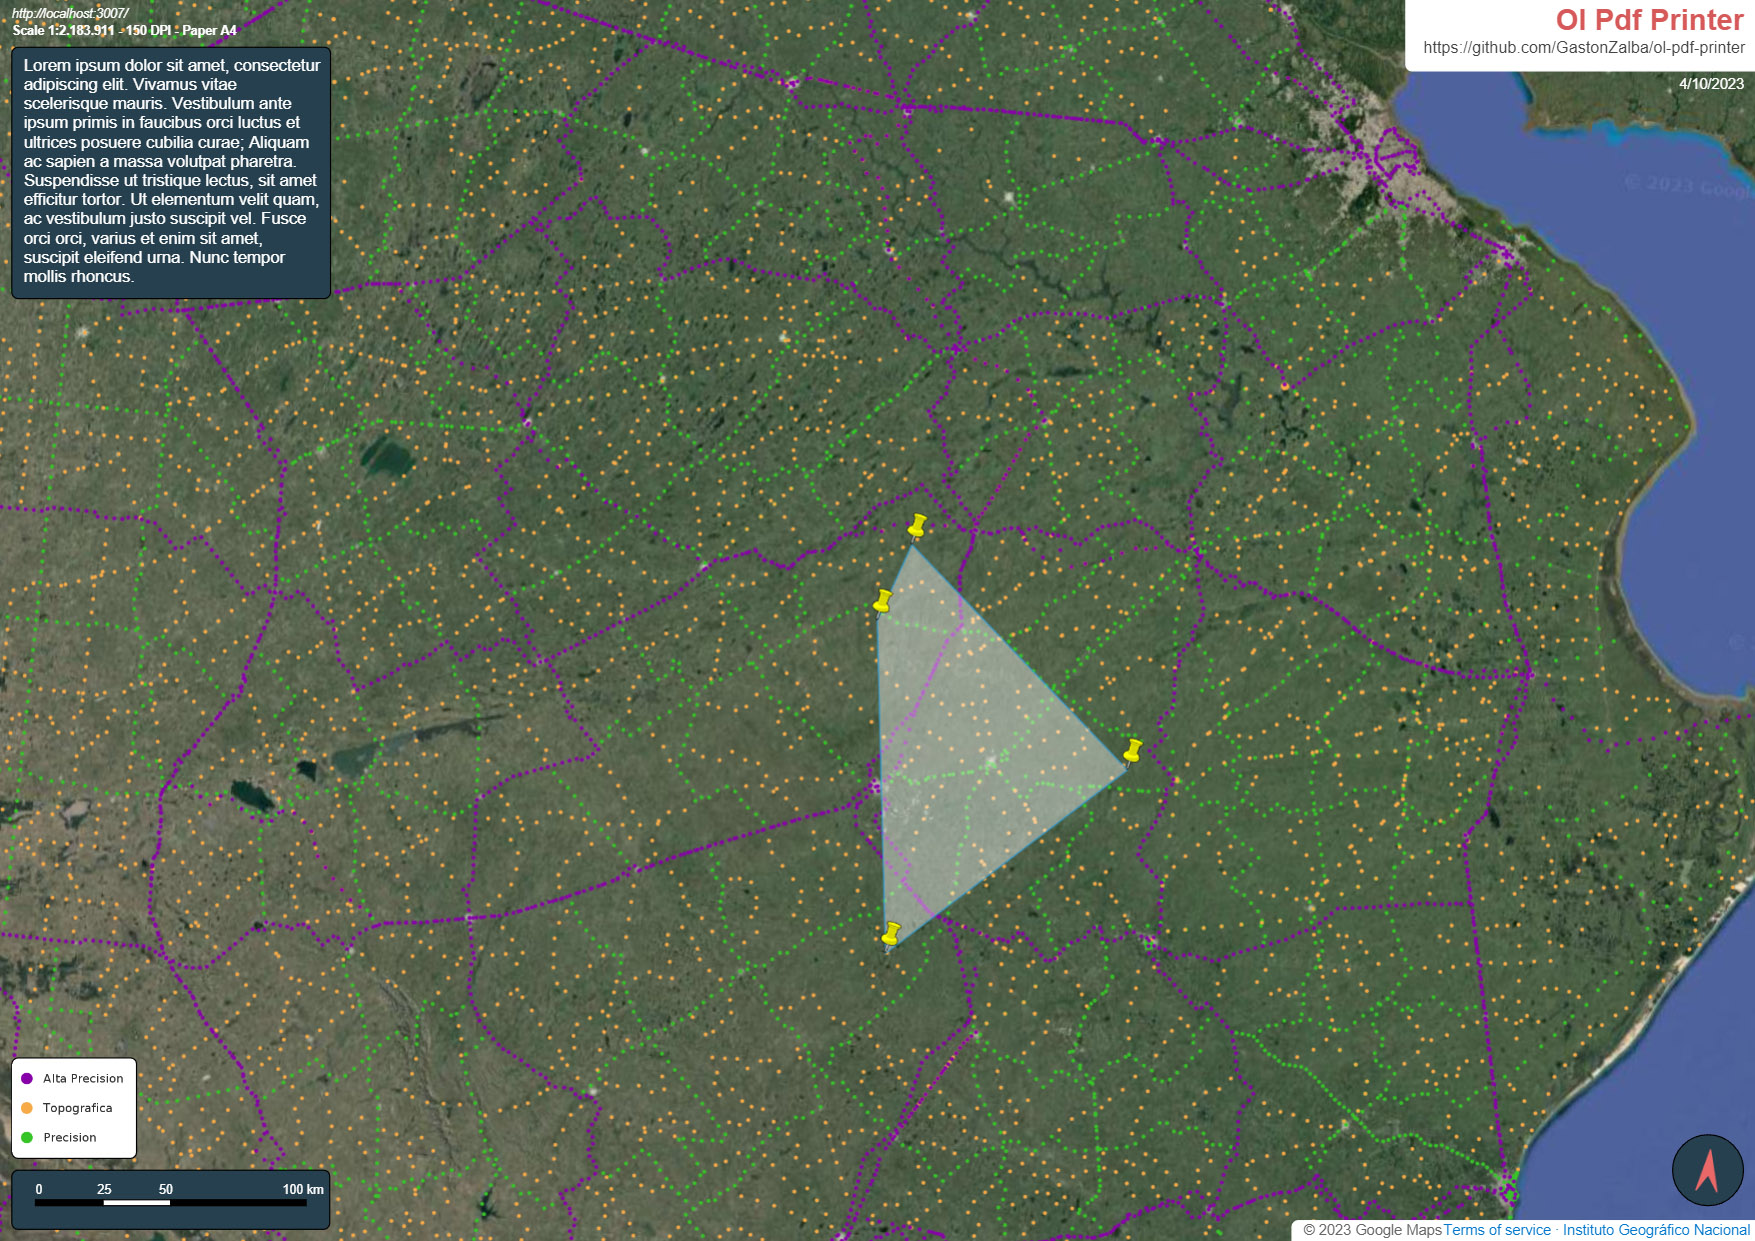
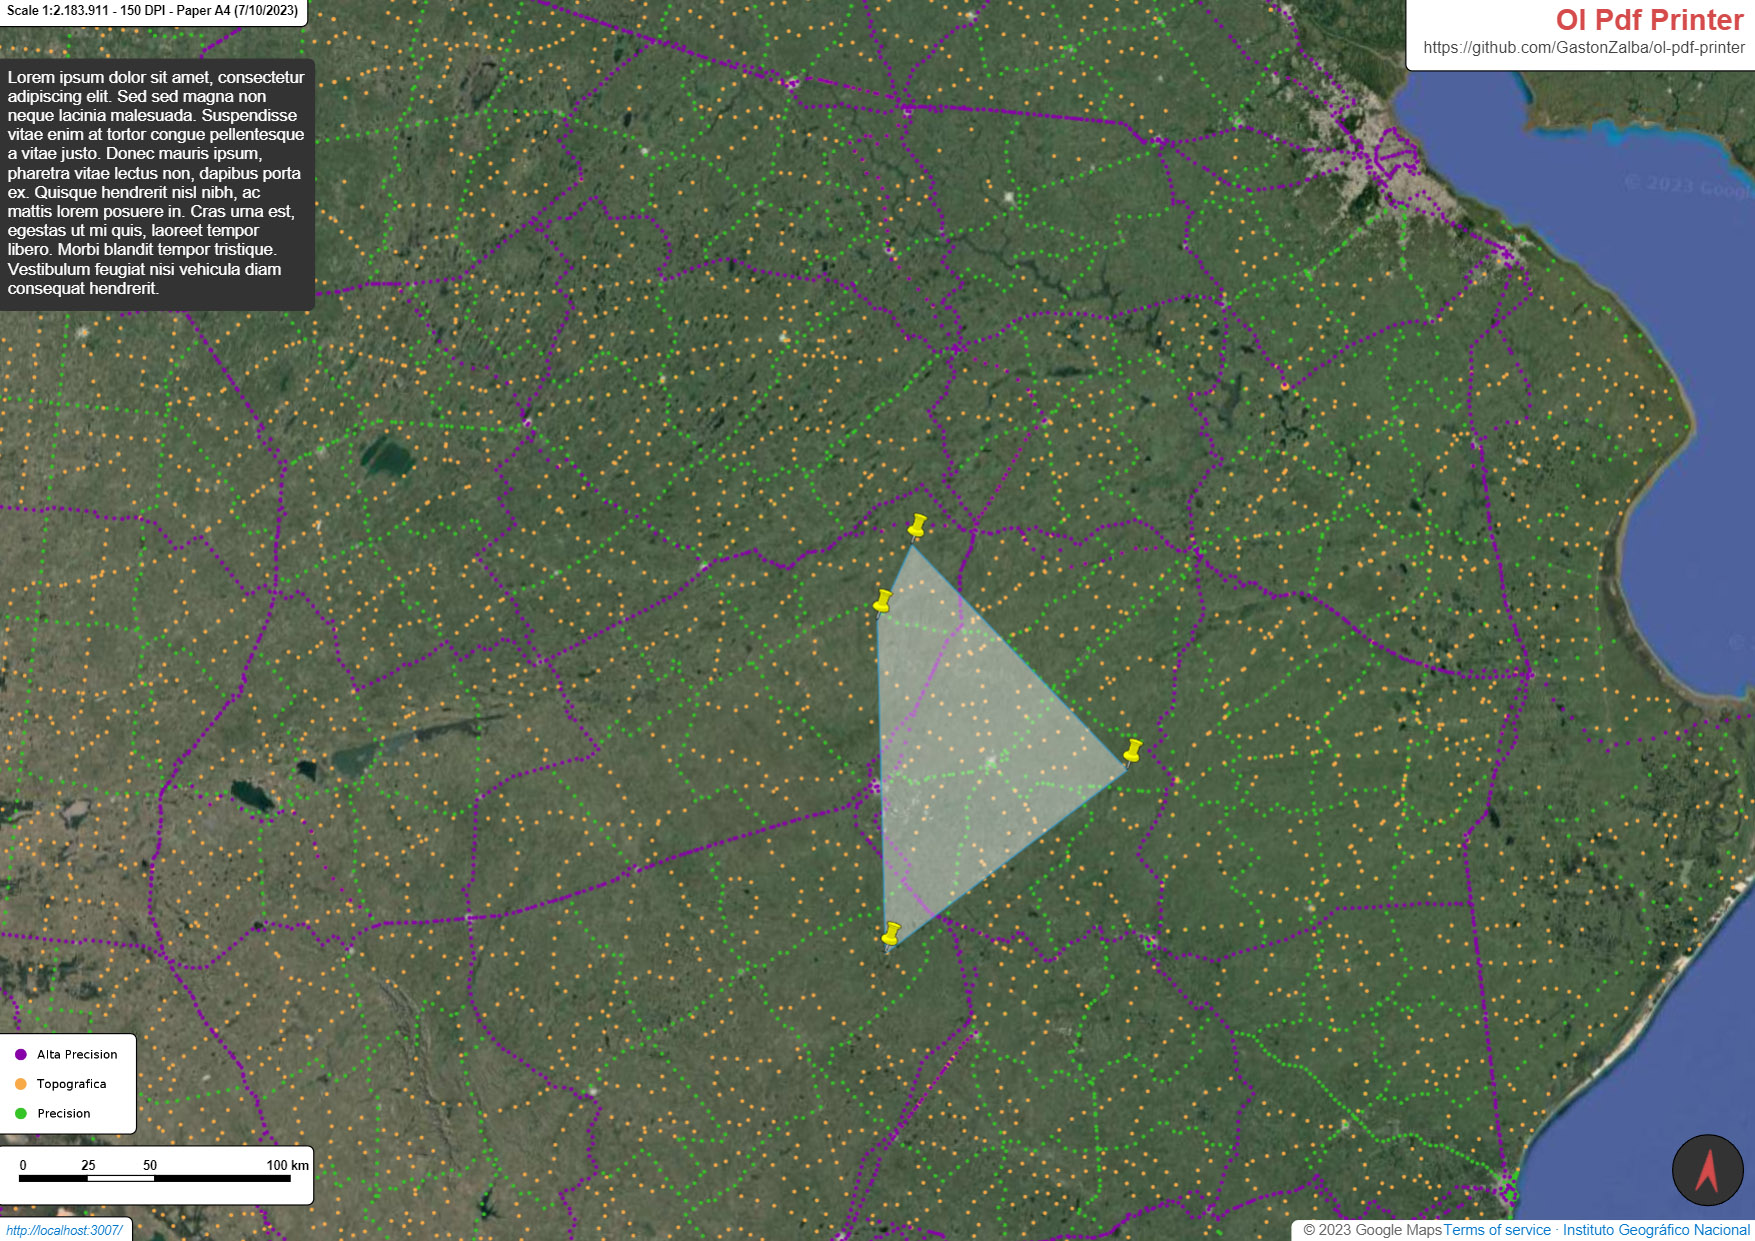
README and screenshots

diff --git a/README.md b/README.md
@@ -20,9 +20,8 @@ Tested with OpenLayers version 5, 6, 7 and 8.
 
 WMS sources and Icons that use external urls must be setted to `crossOrigin: 'anonymous'`. Otherwise, it will ocurr a `DOMException: Failed to execute 'toDataURL' on 'HTMLCanvasElement': Tainted canvases may not be exported`.
 
-<img src="screenshots/example-1.jpg" style="width:50%; float:left;">
-<img src="screenshots/example-2.jpg" style="width:50%; float:left;">
-<img src="screenshots/example-3.jpg" style="width:50%;">
+<img src="screenshots/example-1.jpg" style="width:50%; float:left;"/>
+<img src="screenshots/example-2.jpg" style="width:50%;"/>
 
 ## Examples
 
@@ -37,7 +36,7 @@ var opt_options = {
     i18n: {...}, // Custom translations. Default is according to selected language
     showControlBtn: true,
     filename: 'Ol Pdf Printer',
-    units: 'metric',  
+    units: 'metric',
     extraInfo: {
         date: true,
         url: true,
@@ -185,7 +184,9 @@ import PdfPrinter from 'ol-pdf-printer';
 
 ```js
 import 'ol-pdf-printer/dist/css/ol-pdf-printer.min.css';
-import 'ol-pdf-printer/dist/css/bootstrap.min.css'; // Bootstrap bundle
+import 'ol-pdf-printer/dist/css/bootstrap.min.css'; // Personalized bootstrap bundle
+//or scss (needs bootstrap installed)
+import 'ol-street-view/lib/style/scss/ol-street-view.scss';
 ```
 
 ##### TypeScript type definition
@@ -230,16 +231,33 @@ TypeScript types are shipped with the project in the dist directory and should b
 -   [IDpi](#idpi)
     -   [value](#value-1)
     -   [selected](#selected-1)
+-   [brcolor](#brcolor)
+-   [bkcolor](#bkcolor)
+-   [txcolortitle](#txcolortitle)
+-   [txcolorsubtitle](#txcolorsubtitle)
+-   [brcolor](#brcolor-1)
+-   [bkcolor](#bkcolor-1)
+-   [txcolor](#txcolor)
+-   [brcolor](#brcolor-2)
+-   [bkcolor](#bkcolor-2)
+-   [txcolor](#txcolor-1)
+-   [txcolorlink](#txcolorlink)
+-   [brcolor](#brcolor-3)
+-   [bkcolor](#bkcolor-3)
+-   [txcolor](#txcolor-2)
+-   [brcolor](#brcolor-4)
+-   [bkcolor](#bkcolor-4)
+-   [txcolor](#txcolor-3)
+-   [brcolor](#brcolor-5)
+-   [bkcolor](#bkcolor-5)
+-   [txcolor](#txcolor-4)
+-   [brcolor](#brcolor-6)
+-   [bkcolor](#bkcolor-6)
+-   [txcolor](#txcolor-5)
+-   [brcolor](#brcolor-7)
+-   [bkcolor](#bkcolor-7)
 -   [IStyle](#istyle)
     -   [paperMargin](#papermargin)
-    -   [brcolor](#brcolor)
-    -   [bkcolor](#bkcolor)
-    -   [txcolor](#txcolor)
-    -   [descbrcolor](#descbrcolor)
-    -   [descbkcolor](#descbkcolor)
-    -   [desctxcolor](#desctxcolor)
-    -   [compassbrcolor](#compassbrcolor)
-    -   [compassbkcolor](#compassbkcolor)
 -   [IMimeTypeExport](#imimetypeexport)
 -   [IModal](#imodal)
     -   [animateClass](#animateclass)
@@ -249,9 +267,7 @@ TypeScript types are shipped with the project in the dist directory and should b
     -   [templates](#templates)
 -   [IWatermark](#iwatermark)
     -   [title](#title)
-    -   [titleColor](#titlecolor)
     -   [subtitle](#subtitle)
-    -   [subtitleColor](#subtitlecolor)
     -   [logo](#logo)
 -   [IExtraInfo](#iextrainfo)
     -   [date](#date-1)
@@ -419,55 +435,165 @@ Type: [number](https://developer.mozilla.org/docs/Web/JavaScript/Reference/Globa
 
 Type: [boolean](https://developer.mozilla.org/docs/Web/JavaScript/Reference/Global_Objects/Boolean)
 
+### brcolor
+
+Watermark border color
+
+Type: [string](https://developer.mozilla.org/docs/Web/JavaScript/Reference/Global_Objects/String)
+
+### bkcolor
+
+Watermark background color
+
+Type: [string](https://developer.mozilla.org/docs/Web/JavaScript/Reference/Global_Objects/String)
+
+### txcolortitle
+
+Watermark title color
+
+Type: [string](https://developer.mozilla.org/docs/Web/JavaScript/Reference/Global_Objects/String)
+
+### txcolorsubtitle
+
+Watermark subtitle color
+
+Type: [string](https://developer.mozilla.org/docs/Web/JavaScript/Reference/Global_Objects/String)
+
+### brcolor
+
+Url border color
+
+Type: [string](https://developer.mozilla.org/docs/Web/JavaScript/Reference/Global_Objects/String)
+
+### bkcolor
+
+Url background color
+
+Type: [string](https://developer.mozilla.org/docs/Web/JavaScript/Reference/Global_Objects/String)
+
+### txcolor
+
+Url text color
+
+Type: [string](https://developer.mozilla.org/docs/Web/JavaScript/Reference/Global_Objects/String)
+
+### brcolor
+
+Attributions border color
+
+Type: [string](https://developer.mozilla.org/docs/Web/JavaScript/Reference/Global_Objects/String)
+
+### bkcolor
+
+Attributions background color
+
+Type: [string](https://developer.mozilla.org/docs/Web/JavaScript/Reference/Global_Objects/String)
+
+### txcolor
+
+Attributions text color
+
+Type: [string](https://developer.mozilla.org/docs/Web/JavaScript/Reference/Global_Objects/String)
+
+### txcolorlink
+
+Attributions links color
+
+Type: [string](https://developer.mozilla.org/docs/Web/JavaScript/Reference/Global_Objects/String)
+
+### brcolor
+
+Scalebar border color
+
+Type: [string](https://developer.mozilla.org/docs/Web/JavaScript/Reference/Global_Objects/String)
+
+### bkcolor
+
+Scalebar background color
+
+Type: [string](https://developer.mozilla.org/docs/Web/JavaScript/Reference/Global_Objects/String)
+
+### txcolor
+
+Scalebar text and graph color
+
+Type: [string](https://developer.mozilla.org/docs/Web/JavaScript/Reference/Global_Objects/String)
+
+### brcolor
+
+Specs border color
+
+Type: [string](https://developer.mozilla.org/docs/Web/JavaScript/Reference/Global_Objects/String)
+
+### bkcolor
+
+Specs background color
+
+Type: [string](https://developer.mozilla.org/docs/Web/JavaScript/Reference/Global_Objects/String)
+
+### txcolor
+
+Specs text color
+
+Type: [string](https://developer.mozilla.org/docs/Web/JavaScript/Reference/Global_Objects/String)
+
+### brcolor
+
+Legends border color
+
+Type: [string](https://developer.mozilla.org/docs/Web/JavaScript/Reference/Global_Objects/String)
+
+### bkcolor
+
+Legends background color
+
+Type: [string](https://developer.mozilla.org/docs/Web/JavaScript/Reference/Global_Objects/String)
+
+### txcolor
+
+Legends text color
+
+Type: [string](https://developer.mozilla.org/docs/Web/JavaScript/Reference/Global_Objects/String)
+
+### brcolor
+
+Description border color
+
+Type: [string](https://developer.mozilla.org/docs/Web/JavaScript/Reference/Global_Objects/String)
+
+### bkcolor
+
+Description background color
+
+Type: [string](https://developer.mozilla.org/docs/Web/JavaScript/Reference/Global_Objects/String)
+
+### txcolor
+
+Description text color
+
+Type: [string](https://developer.mozilla.org/docs/Web/JavaScript/Reference/Global_Objects/String)
+
+### brcolor
+
+Compass border color
+
+Type: [string](https://developer.mozilla.org/docs/Web/JavaScript/Reference/Global_Objects/String)
+
+### bkcolor
+
+Compass background color
+
+Type: [string](https://developer.mozilla.org/docs/Web/JavaScript/Reference/Global_Objects/String)
+
 ### IStyle
 
 **_\[interface]_**
 
 #### paperMargin
 
+Only added if `Add printer margins` is checked
+
 Type: ([number](https://developer.mozilla.org/docs/Web/JavaScript/Reference/Global_Objects/Number) | {top: [number](https://developer.mozilla.org/docs/Web/JavaScript/Reference/Global_Objects/Number), right: [number](https://developer.mozilla.org/docs/Web/JavaScript/Reference/Global_Objects/Number), bottom: [number](https://developer.mozilla.org/docs/Web/JavaScript/Reference/Global_Objects/Number), left: [number](https://developer.mozilla.org/docs/Web/JavaScript/Reference/Global_Objects/Number)})
-
-#### brcolor
-
-Type: [string](https://developer.mozilla.org/docs/Web/JavaScript/Reference/Global_Objects/String)
-
-#### bkcolor
-
-Type: [string](https://developer.mozilla.org/docs/Web/JavaScript/Reference/Global_Objects/String)
-
-#### txcolor
-
-Type: [string](https://developer.mozilla.org/docs/Web/JavaScript/Reference/Global_Objects/String)
-
-#### descbrcolor
-
-Description border color
-
-Type: [string](https://developer.mozilla.org/docs/Web/JavaScript/Reference/Global_Objects/String)
-
-#### descbkcolor
-
-Description background color
-
-Type: [string](https://developer.mozilla.org/docs/Web/JavaScript/Reference/Global_Objects/String)
-
-#### desctxcolor
-
-Description text color
-
-Type: [string](https://developer.mozilla.org/docs/Web/JavaScript/Reference/Global_Objects/String)
-
-#### compassbrcolor
-
-Compass border color
-
-Type: [string](https://developer.mozilla.org/docs/Web/JavaScript/Reference/Global_Objects/String)
-
-#### compassbkcolor
-
-Compass background color
-
-Type: [string](https://developer.mozilla.org/docs/Web/JavaScript/Reference/Global_Objects/String)
 
 ### IMimeTypeExport
 
@@ -503,21 +629,19 @@ Type: {dialog: ([string](https://developer.mozilla.org/docs/Web/JavaScript/Refer
 
 #### title
 
-Type: [string](https://developer.mozilla.org/docs/Web/JavaScript/Reference/Global_Objects/String)
-
-#### titleColor
+Check style section to change the color
 
 Type: [string](https://developer.mozilla.org/docs/Web/JavaScript/Reference/Global_Objects/String)
 
 #### subtitle
 
-Type: [string](https://developer.mozilla.org/docs/Web/JavaScript/Reference/Global_Objects/String)
-
-#### subtitleColor
+Check style section to change the color
 
 Type: [string](https://developer.mozilla.org/docs/Web/JavaScript/Reference/Global_Objects/String)
 
 #### logo
+
+Display a small logo next to the title
 
 Type: (`false` | [string](https://developer.mozilla.org/docs/Web/JavaScript/Reference/Global_Objects/String) | [HTMLImageElement](https://developer.mozilla.org/docs/Web/API/HTMLImageElement) | [SVGElement](https://developer.mozilla.org/docs/Web/SVG/Element/animate))
 
@@ -696,5 +820,6 @@ Type: [I18n](#i18n)
 -   \~~Legends support~~
 -   \~~Imperial units option for scalebar~~
 -   \~~Customizable date format~~
+-   Add option to reframe the area before be captured
 -   Events
 -   Tests!
